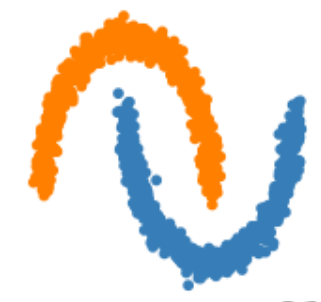
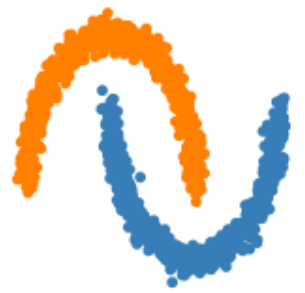
Update fundamentals

diff --git a/paper/sections/02-fundamentals.tex b/paper/sections/02-fundamentals.tex
@@ -10,42 +10,47 @@
 
 \subsection{Distributed Array Computation}
 \label{subsec:distributed_array_computation}
-General array computation is used in a lof of scientific fields nowadays.
-Simulation of atomic levels or measurements of fuel are fine grained enough to have huge data amounts
-and they still need to be processed.
-One elegant way to solve this is the use of distributed computing. By using multiple machines at once
-the computing time should go down while the available memory increases.
-But writing distributed programs from scratch is hard problem especially for scientists that have limited amount
-of experience with computing in comparison to computer scientists.
+Many scientific fields use \gls{numpy} arrays as a basis for their calculation. Due to their implementation in the C language and their well designed
+Python interface, they are fast to use and easy to understand. But, \gls{numpy} arrays are only implemented for single node use.
+Multiple approaches to allow the use of \gls{numpy} arrays on multiple nodes have emerged.
+Some of them like \cite{bauer_legate_2019} add \gls{GPU} support as well, to leverage the speedup for some of the operations.
+
+The hardest part in distributed array computing lies in the distribution of the data. All implementations provide
+either the option to specify how the data should be distributed or even try to estimate the best distribution \cite{huang_spartan_nodate}.
+But all of them have in common, that the distribution of the data itself is encapsulated and hidden from the user.
+This allows ease of use, but can lead to drops in performance when the user executes non optimal operations.
+
 
 \subsection{MPI}
 \label{subec:mpi}
-\gls{MPI} is a message-passing standard published from the Message-Passing Interface Forum. It is currently available in version 3.1 \cite{message_passing_interface_forum_mpi_nodate}.
-\enquote{The goal of the Message-Passing-Interface, simply stated, is to develop a widely used standard for writing message-passing programs}\cite{message_passing_interface_forum_mpi_nodate}.
+\gls{MPI} is a message-passing standard published from the Message-Passing Interface Forum. It is currently available in version 3.1 \cite{message_passing_interface_forum_mpi_2015}.
+\enquote{The goal of the Message-Passing-Interface, simply stated, is to develop a widely used standard for writing message-passing programs}\cite{message_passing_interface_forum_mpi_2015}.
 With this goal \gls{MPI} is today often used in \gls{HPC}, especially in Grid Computing. The standard interface allows to pass results or data between different processes or nodes.
-Due to \gls{MPI} being a standard multiple implementations exist, that support different versions of the standard.
-% TODO: Add citation
+Due to \gls{MPI} being a standard multiple implementations exist, which support different versions of the standard.
 Some of these implementations OpenMPI \cite{noauthor_open_nodate} and Intel MPI \cite{noauthor_intel_nodate}, which are available on our compute ressources.
+\gls{MPI} has some limitations that should be remembered when using it with big data sets. The most important limitation is the maximum message size, due to the size
+being specified as an integer. Therfore, the maximum number of values that can be passed is \(2^{31} - 1\). Bigger messages need to be split in multiple messages or workarounds need to be implemented.
 
 \subsection{HEAT}
 \label{subsec:heat}
-\gls{HeAT} is introduced in \cite{krajsek_helmholtz_nodate}. HeAT aims to be a mathemtical library for distributed computations.
-It conforms to a Numpy \cite{noauthor_numpy_nodate} interface and make all distributed calculations transparent. To move from executing \gls{HeAT} scripts to executing them parallel
-or distributed one just needs to change the execution command to MPI.
-This is due to \gls{HeAT} wrapping PyTorch as implementation with the correct \gls{MPI} synchronization to distribute the calculation.
+\gls{HeAT} is introduced in \cite{krajsek_helmholtz_nodate}. \gls{HeAT} aims to be a mathemtical library for distributed computations.
+It conforms to a \gls{numpy} \cite{noauthor_numpy_nodate} interface and makes all distributed calculations transparent. To move from executing \gls{HeAT} scripts single threaded to executing them parallel
+or distributed one just needs to change the execution command to \gls{MPI}.
+This is due to \gls{HeAT} wrapping \gls{PyTorch} as implementation with the correct \gls{MPI} synchronization to distribute the calculation.
 
 To perform the calculation distributed correctly \gls{HeAT} adds a new data structure: the DNDArray. Users of other libraries
 recognize the general interface of Numpy arrays or PyTorch Tensors, but extended by a split parameter.
-The split parameter allows to control the axis, which \gls{HeAT} distributed across the different nodes.
+The split parameter allows to control the axis, which the data is distributed across.
+The developers decided to allow only 1 split axis to keep the development effort manageable.
 
-Although, the distribution is transparent besides the split parameter, several pitfalls exist.
+Although, the distribution is transparent besides the split parameter several pitfalls exist.
 When reshaping or splicing the dataset one has to potentially rebalance the dataset. Additionally, this could incurr communication effort
 to redistribute the dataset across the nodes.
 Another pitfalls especially for developers comming from the distributed programming, lies in all processes needing to call all \gls{HeAT} methods.
 While in traditional \gls{MPI} one discriminates between the processes based on the rank, in \gls{HeAT} all nodes need to access all functions and DNDArrays or the
 programm could lockup.
 
-Lastly, \gls{HeAT} provides the load utility for distributed loading of datasets. Through the usage of all nodes at the same time IO is maximized and the data
+Lastly, \gls{HeAT} provides the load utility for distributed loading of datasets. Through the usage of all nodes at the same time \gls{IO} is maximized and the data
 is splitted already during loading. Therefore, calculations can start right away without the need to distribute the data.
 \cite{krajsek_helmholtz_nodate}
 
@@ -53,7 +58,7 @@ is splitted already during loading. Therefore, calculations can start right away
 \subsection{Local Climate Zone Classification}
 \label{subsec:local_climate_zone_classification}
 
-\gls{LCZ}s are a scheme formally proposed by \citeauthor{stewart_local_2012} in \cite{stewart_local_2012}. The scheme classifies areas based on fabric, land cover, structure
+\glspl{LCZ} are a scheme formally proposed by \citeauthor{stewart_local_2012} in \cite{stewart_local_2012}. The scheme classifies areas based on fabric, land cover, structure
 and metabolism into one of 17 \gls{LCZ}s. \cite{xue_applications_2020}
 The \gls{LCZ}s are decided by 4 components:
 \begin{enumerate}
@@ -63,16 +68,18 @@ The \gls{LCZ}s are decided by 4 components:
   \item Thermal admittance of materials
 \end{enumerate}
 The different classes can be seen in \cref{fig:lcz_classes}.
-
+The \glspl{LCZ} were introduced to get more explainable and general divisions of the suburban ares. They are complex and diverse which make temperature and other climate analysis harder
+to understand and explain without a system. According to \citeauthor{stewart_local_2012}, the system fullfills all criteria of a logical local system as defined in \cite{grigg_logic_1965}.
+Their work adds guidelines on how to classify an area correctly into their zones and how to use them afterwards.
 
 
 \subsection{SO2Sat}
-\citeauthor{zhu_so2sat_2019} presented the SO2Sat dataset in \cite{zhu_so2sat_2019}. They describe SO2Sat as a \enquote{valuable benchmark dataset [...], which consists of local climate zone (LCZ) labels of about half a million [...] image patches}.
-These images are taken from Sentinel-1 and Sentinel-2. Each image is 32 by 32 pixels and contains 8 channels for Sentinel-1 and 10 channels for Sentinel-2.
-After preprocessing these images they were given to domain experts for labelling which follwed a \enquote{carefully designed labelling work flow}.
-Through the careful work the dataset achieved a \enquote{overall confidence of 85\%}.
-The annotations contains the 17 LCZ classes.
-The regions of the dataset are 52 cities.
+\label{subsec:so2sat}
+\citeauthor{zhu_so2sat_2019} presented the SO2Sat dataset in \cite{zhu_so2sat_2019}. They describe SO2Sat as a \enquote{valuable benchmark dataset \textelp{}, which consists of local climate zone (LCZ) labels of about half a million \textelp{} image patches}.
+These images are taken from the ESA satellites Sentinel-1 and Sentinel-2. Each image is 32 by 32 pixels and contains 8 channels for Sentinel-1 and 10 channels for Sentinel-2.
+After preprocessing these images they were given to domain experts for labelling which follwed a \enquote{carefully designed labelling work flow} \cite{zhu_so2sat_2019}.
+Through the careful work the dataset achieved a \enquote{overall confidence of 85\%} \cite{zhu_so2sat_2019}.
+The labels consist of integers representing the 17 different \glspl{LCZ}. 52 cities are part of the dataset.
 
 \subsection{Spectral Clustering}
 \label{subsec:spectral_clustering}
@@ -103,7 +110,7 @@ is unidrectional, the weight is identical for \(w_{ij} = w_{ji} \).
 We define the degree of a vertex \(v_i \in V\) by iterating over all vertices \(v_j \in V\) that are connected to \(v_i\).
 Therefore, the weight of the edge is positive:
 \[d_i = \sum_{j=1}^n w_{ij}\]
-Using the degree defined before, we define the degree matrix \(D\) as the diagonal matrix whith the degrees \(d_1, \ldots, d_n\) on the diagonal.
+Using the degree defined before, we define the degree matrix \(D\) as the diagonal matrix with the degrees \(d_1, \ldots, d_n\) on the diagonal.
 \cite{von_luxburg_tutorial_2007}
 % Weights Matrix
 For 2 subsets of indices \(A, B\) we define the weights matrix \cite{von_luxburg_tutorial_2007}:
@@ -114,19 +121,25 @@ There are several possible ways to construct such a similarity graph from two da
 The following three are used often for spectral clustering:
 \begin{itemize}
   \item Fully connected
-  \item Symmetric
-  \item \(\epsilon\)-Neighbourhood
+  \item k-nearest neighbour
+  \item \(\epsilon\)-neighbourhood
 \end{itemize}
+The fully connected graph considers the similarity between all samples. The graph should model the local neighbours and is therefore only useful when the distance function
+models the width of the neighbourhood.
+The k-nearest neighbour graph can be implemented in two ways. If we just use the defintion of the k-nearest neighbours we would receive an directed graph.
+To convert this into a undirected graph we can decide between connecting both vertices if one of them is a k-nearest neighbour of the other or connecting them if both vertices are nearest neighbours of each other.
+Last, the \(\epsilon\)-neighbourhood graph only connects vertices that are closer than \(\epsilon\).
+Since, this option already models the neighbourhood directly it usually is considered as an unweighted graph. \cite{von_luxburg_tutorial_2007}
 According to \cite{von_luxburg_tutorial_2007} there is no theoretical work on the choosing of one method over
 another.
 
 Using the constructed similarity graph we need to calculate the spectrum of the similarity matrix.
-This is done by constructing the Laplacian defined via
+This is done by constructing the laplacian defined via
 \[L = W - D\]
 using \(W, D\) as defined earlier.
 
 The Lanczos algorithm \cite{lanczos_iteration_1950} is used to calculate the eigenvalues and eigenvectors from the laplacian.
-When using the \(k\) smallest eigenvalues and the korresponding eigenvectors \(e_1, \ldots, e_k\) we can embedd the dataset.
+When using the \(k\) smallest eigenvalues and the korresponding eigenvectors \(e_1, \ldots, e_k\) we can embed the dataset.
 
 Now a clustering can be performed in the smaller embedding space of the eigenbasis using another algorithm, e.g. KMeans.
 The overall algorithm can be found in algorithm \ref{alg:basic_spectral}.
@@ -138,14 +151,14 @@ The overall algorithm can be found in algorithm \ref{alg:basic_spectral}.
 \end{figure}
 
 One of the most common examples for spectral clustering can be seen in \cref{fig:spectral_example}. Spectral Clustering is able to
-separate the both datasets. This is often compared with KMeans which fails to correctly recognize the different clusters when using the euclidean distance.
+separate the nonlinear datasets. This is often compared with KMeans which fails to correctly recognize the different clusters when using the euclidean distance.
 
 \subsection{Distance Metrics}
 \label{subsec:distance_metrics}
 For the spectral clustering the distance between samples needs to be measured. Depending on the data different ways to measure the distance are implemented in \gls{HeAT}.
 
 \subsubsection{Euclidean Distance}
-The euclidean distance is a default way to measure the distance. The euclidean distance of two points \(X = (x_1, \ldots, x_n ), X' = (x_1', \ldots, x_n')\) is commonly defined  as:
+The euclidean distance is a well known way to measure the distance. The euclidean distance of two points \(X = (x_1, \ldots, x_n ), X' = (x_1', \ldots, x_n')\) is commonly defined  as:
 \[
   d\left(X, X'\right) = \sqrt{{(x_1' - x_1)}^2 + \ldots + {(x_n' - x_n)}^2}
 \]
@@ -164,9 +177,9 @@ It allows to seperate non-linear data with many algorithms.
 \label{subsec:clustering_evaluation_metrics}
 
 Evaluating clusters is more complicated than evaluating classification or other supervised machine learning tasks.
-Unsupervised tasks can be evaluating using interal or external metrics. While, internal metrics are derived from the algorithm itself e.g. Cluster purity, external metrics need labels for the dataset.
+Unsupervised tasks can be evaluated using interal or external metrics. While, internal metrics are derived from the algorithm itself e.g. Cluster purity, external metrics are calculated from the comparison with given labels.
 
-Due to in this work used dataset having labels, this section is going to focus on external metrics.
+Since the in \cref{subsec:so2sat} exaplained dataset contains labels, this section is going to focus on external metrics.
 For the here presented metrics we define \(C\) as the ground truth classes and \(K\) as the clustering assignment.
 ON this basis we define the following:\\
 \(a\) - the number of pairs of elements that are in the same set in \(C\) and in the same set in \(K\)\\
@@ -180,6 +193,19 @@ The raw Rand Index is mathematically given by \cite{noauthor_23_2020} as
 \[RI = \frac{a + b}{C_2^{n_{samples}}}\]
 When adjusting this index for random assignments we yield:
 \[ARI = \frac{RI - \mathbb{E} [RI]}{\max (RI) - \mathbb{E} [RI]}\]
+
+
+\subsubsection{V-Measure}
+\label{ssec:v_measure}
+The V-Measure was introduced by \citeauthor{rosenberg_v-measure_2007} in \cite{rosenberg_v-measure_2007} as an external clustering evaluation metric based on entropy.
+The measurement is computed as a combination of Homogenity and Completeness. This allows the measurement to be explained more easily by logging Homogenity and Completeness additionally.
+Homogenity measures if only data points of a single class are assigned to a single cluster. Completeness is defined symmetrically to Homogenity by measuring if all datapoints of a single class are assigned to
+a single cluster.
+When combining these two with \(\beta\) we get the V-Measure \cite{noauthor_23_2020}:
+\[v = \frac{(1 + \beta) \times \mathit{Homogenity} \times \mathit{Completeness}}{\beta \times \mathit{Homogenity} + \mathit{Completeness}}\]
+Depending on the value for \(\beta\) we put more weights on Homogenity or Completeness. The usual value for \(\beta\) is \(1.0\) which weights both components equally.
+The measurement is symmetric and bounded between \(0\) and \(1\), the later being the perfect achievable score.
+
 
 
 \begin{figure*}

diff --git a/paper/includes/glossary-definitions.tex b/paper/includes/glossary-definitions.tex
@@ -1,21 +1,11 @@
 \newacronym[] {irl}{IRL}{Inverse Reinforcement Learning}
-
-
-\newglossaryentry{gpd}{
-    name=Geopandas,
-    description={A python library based on \gls{pd} to work with huge amounts of spatial data.}
-}
-
-\newglossaryentry{HeAT}{
-    name=Helmholtz Analytik Framework,
-    description={The framework developed by the Helmholtz Association to
-    allow easier use of machine learning and analytics in a distributed context}
-}
-
-\newglossaryentry{GPU}{
-    name=Graphical Processing Unit,
-    description={Graphical Processing Units are optimized for highly parallel computation}
-}
+\newacronym[]{HeAT}{HeAT}{Helmholtz Analytik Framework}
+\newacronym[]{GPU}{GPU}{Graphical Processing Unit}
+\newacronym[]{MPI}{MPI}{Message-Passing Interface}
+\newacronym[]{ARI}{ARI}{Adjusted Rand Index}
+\newacronym[]{LCZ}{LCZ}{Local Climate Zone}
+\newacronym[]{HPC}{HPC}{High-Performance Computing}
+\newacronym[]{IO}{IO}{Input-Output}
 
 \newglossaryentry{numpy}{
     name=Numpy,
@@ -25,24 +15,4 @@
 \newglossaryentry{PyTorch} {
     name=PyTorch,
     description={Library for Tensor and Autograd computation}
-}
-
-\newglossaryentry{MPI} {
-    name=MPI,
-    description={Interface for Multi Processing Instructions}
-}
-
-\newglossaryentry{ARI}{
-    name=Adjusted Rand Index,
-    description={Rand Index adjusted for chance}
-}
-
-\newglossaryentry{LCZ}{
-    name={Local Climate Zone},
-    description={Local Climate Zones according to the Scheme}
-}
-
-\newglossaryentry{HPC}{
-    name={High Performance Computing},
-    description={}
 }
